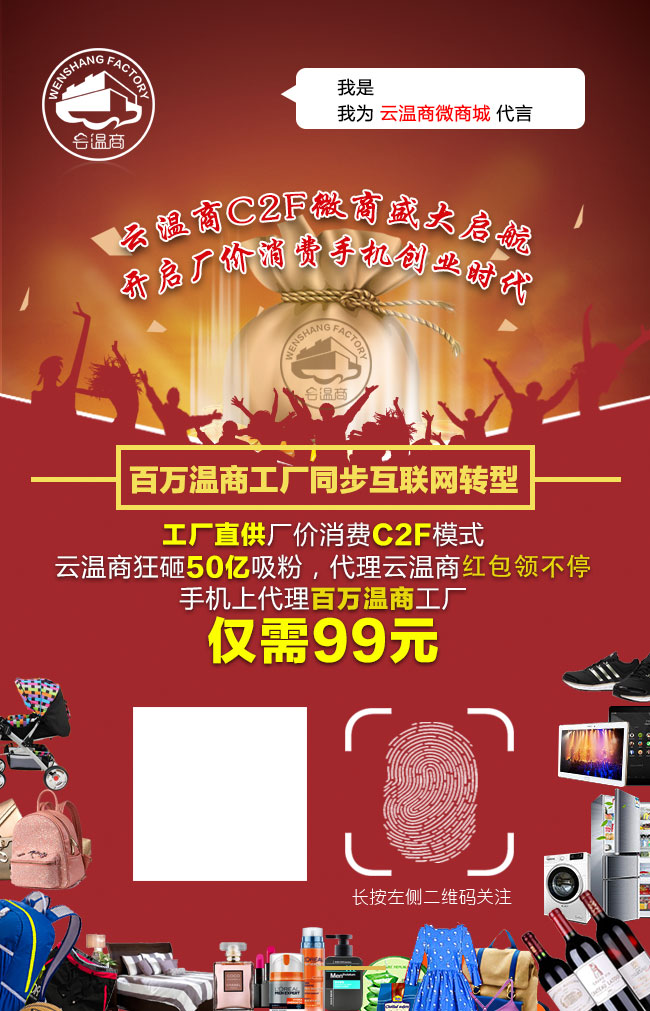
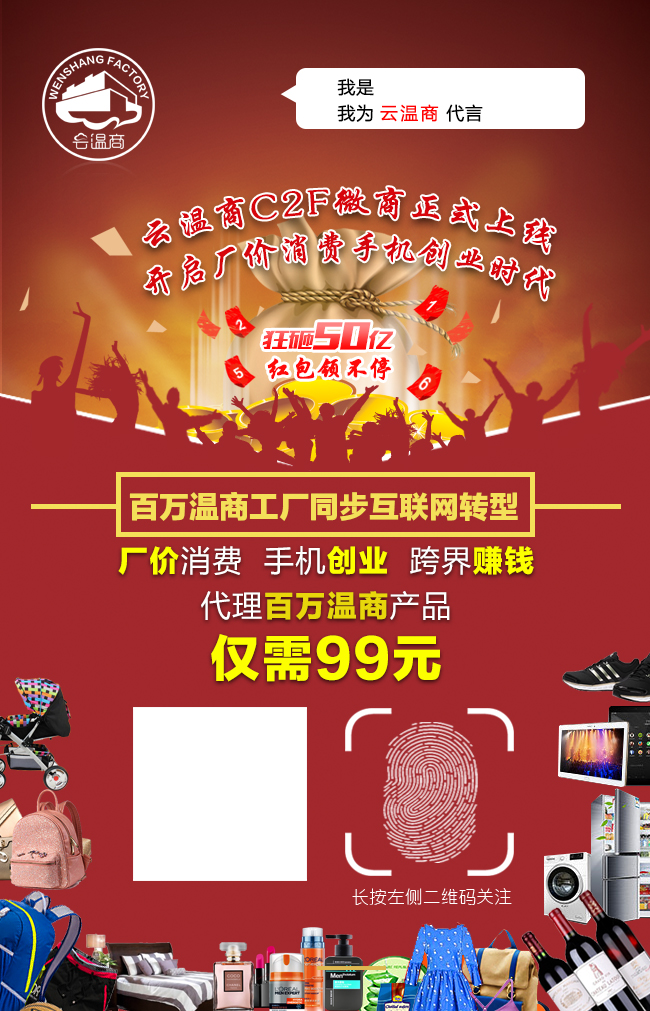
pc index add top adv, modify qr bg.

diff --git a/template/index/default/index/index.php b/template/index/default/index/index.php
@@ -83,6 +83,14 @@
 </head>
 
 <body>
+<?php
+if(!empty($pc_index_top)) {
+	//foreach ($pc_index_top as $adv) {
+	echo '<div><a href="' . $pc_index_top[0]['url'] . '"><img src="' . $pc_index_top[0]['pic'] . '" /></a></div>';
+	//}
+	//echo '<a href="' . $pc_top_right['url'] . '"><img src="' . $pc_top_right['pic'] . '"></a>';
+}
+?>
 <div class="header">
 	<div role="navigation" id="site-nav">
 		<div id="sn-bg">
@@ -263,8 +271,7 @@
 					if(empty($adList_right)) {
 						echo '请添加标识为 pc_slide_right 的广告';
 					} else {
-						echo '<a href="' . $adList_right[0]['url'] . '"><img src="' . $adList_right[0]['pic'] .
-							'" /></a>';
+						echo '<a href="' . $adList_right[0]['url'] . '"><img src="' . $adList_right[0]['pic'] . '" /></a>';
 					}
 					?>
 				</div>

diff --git a/library/controller/index/index_controller.php b/library/controller/index/index_controller.php
@@ -41,6 +41,10 @@ class index_controller extends base_controller
         // 幻灯片右侧广告位
         $ad_footer = $adver->get_adver_by_key('pc_footer', 0);
         $this->assign('pc_footer', $ad_footer);
+        
+        // 首页顶部广告
+        $pc_index_top = $adver->get_adver_by_key('pc_index_top', 0);
+        $this->assign('pc_index_top', $pc_index_top);
 
         // 获取您周边店铺数量
         $WebUserInfo = show_distance();
